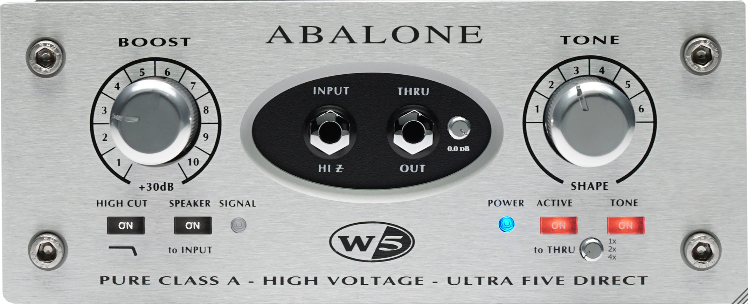
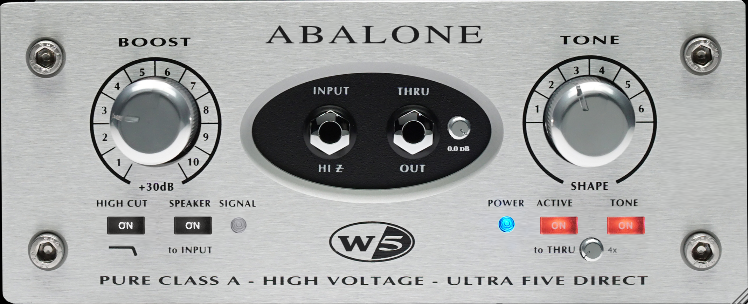
fix: single live OS factor label at THRU size

diff --git a/src/PluginEditor.cpp b/src/PluginEditor.cpp
@@ -402,18 +402,23 @@ void AbaloneW5AudioProcessorEditor::paint (juce::Graphics& g)
     drawOsLabels (g, scaledRect (layoutRatios, "os_dial", w, h), scale);
 }
 
-// OS factor labels (1x/2x/4x), immediately right of the OS mini-knob:
-// three stacked rows centered on the knob, dark plate caption colour.
+// OS factor readout, immediately right of the OS mini-knob: ONE live label
+// showing the current `osfactor` value only ("1x"/"2x"/"4x"), vertically
+// centered on the knob in the dark plate caption colour. It reads the same
+// raw Choice index the DSP path reads (clamped identically), so the label
+// can never disagree with the audio factor. Glyph size matches the baked
+// to-THRU caption beside it: THRU caps span texture rows 703-720 = 18px
+// cap-height (measured), i.e. ~6.3 editor px at 1x; a 9px default-sans face
+// (cap ratio ~0.7) lands at ~6.3px cap — same cap-height, not eyeballed.
 void AbaloneW5AudioProcessorEditor::drawOsLabels (juce::Graphics& g, juce::Rectangle<int> knob, float scale) const
 {
-    static const char* labels[3] = {"1x", "2x", "4x"};
-    g.setFont (juce::Font (juce::FontOptions (8.0f * scale)));
+    const int osIndex = static_cast<int> (std::round (processor.getApvts().getRawParameterValue ("osfactor")->load()));
+    const char* text = (osIndex <= 0) ? "1x" : (osIndex == 1) ? "2x" : "4x";
+    g.setFont (juce::Font (juce::FontOptions (9.0f * scale)));
     g.setColour (juce::Colour (0xff2e3234));
     const int x = knob.getRight() + juce::roundToInt (4.0f * scale);
     const int lw = juce::roundToInt (20.0f * scale);
-    const int rh = knob.getHeight() / 3;
-    for (int i = 0; i < 3; ++i)
-        g.drawText (labels[i], x, knob.getY() + i * rh, lw, rh, juce::Justification::centredLeft, false);
+    g.drawText (text, x, knob.getY(), lw, knob.getHeight(), juce::Justification::centredLeft, false);
 }
 
 void AbaloneW5AudioProcessorEditor::resized ()
@@ -495,5 +500,17 @@ void AbaloneW5AudioProcessorEditor::timerCallback ()
                 trimReadout.setText (text, juce::dontSendNotification);
             }
         }
+    }
+
+    // OS factor readout follows `osfactor` (knob drag, automation, preset
+    // load all arrive via the param): repaint only on change, like TRIM.
+    // Reads the same raw Choice index the DSP path reads (same clamp), so
+    // the label can never disagree with the audio factor.
+    const int osIndex = static_cast<int> (std::round (processor.getApvts().getRawParameterValue ("osfactor")->load()));
+    const juce::String osText = (osIndex <= 0) ? "1x" : (osIndex == 1) ? "2x" : "4x";
+    if (osText != lastOsText)
+    {
+        lastOsText = osText;
+        repaint();
     }
 }

diff --git a/src/PluginEditor.h b/src/PluginEditor.h
@@ -131,8 +131,9 @@ public:
 private:
     void timerCallback () override;
 
-    // OS factor labels (1x/2x/4x), painted in-code immediately right of the
-    // OS mini-knob, stacked and centered on the knob.
+    // OS factor label, painted in-code immediately right of the OS
+    // mini-knob: ONE live readout (current `osfactor` value only),
+    // vertically centered on the knob.
     void drawOsLabels (juce::Graphics& g, juce::Rectangle<int> knobBounds, float scale) const;
 
     // -2dBFS signal-present threshold (spec: LED is signal-present, not clip).
@@ -206,6 +207,7 @@ private:
     bool powerOn = true;
     bool dimVisible = false;
     juce::String lastTrimText;
+    juce::String lastOsText; // cached OS factor readout (repaint only on change).
 
     JUCE_DECLARE_NON_COPYABLE_WITH_LEAK_DETECTOR (AbaloneW5AudioProcessorEditor)
 };
